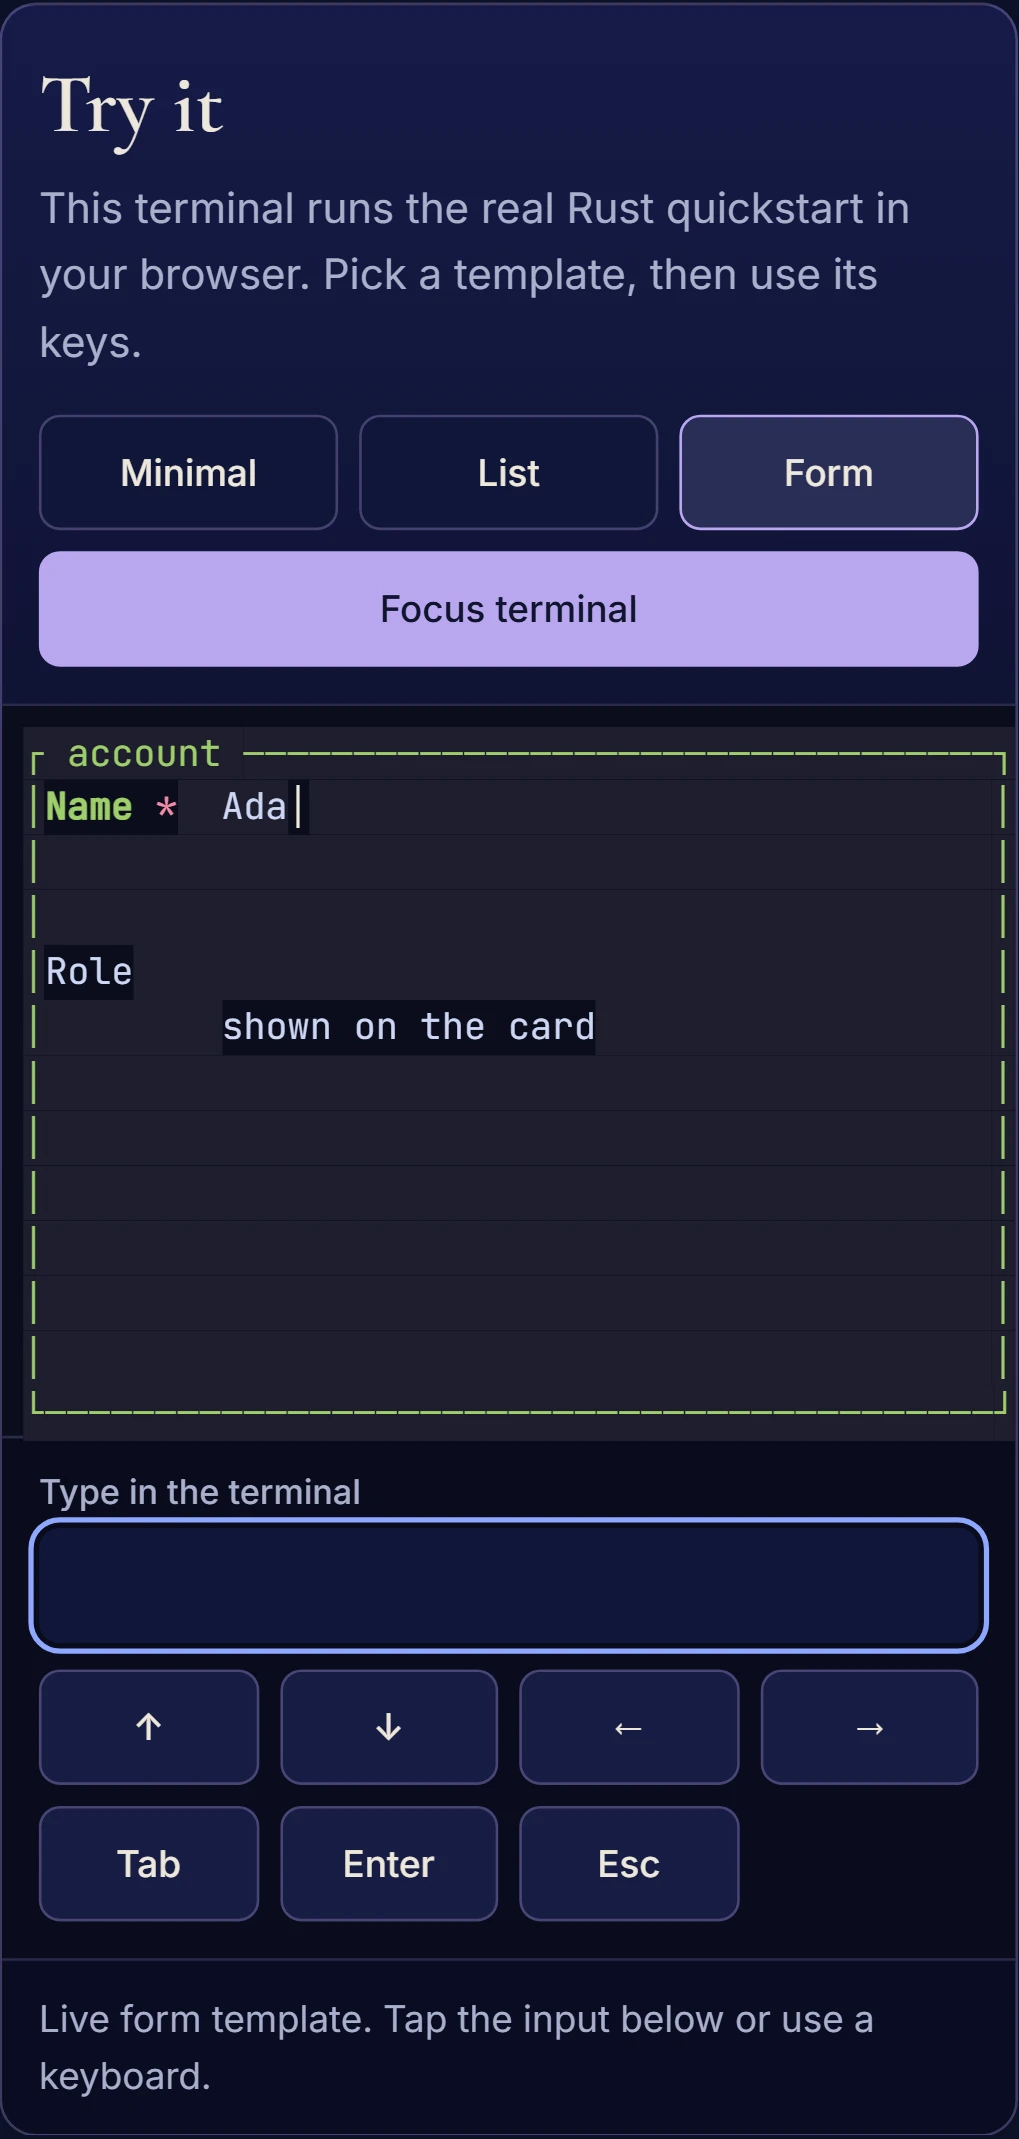
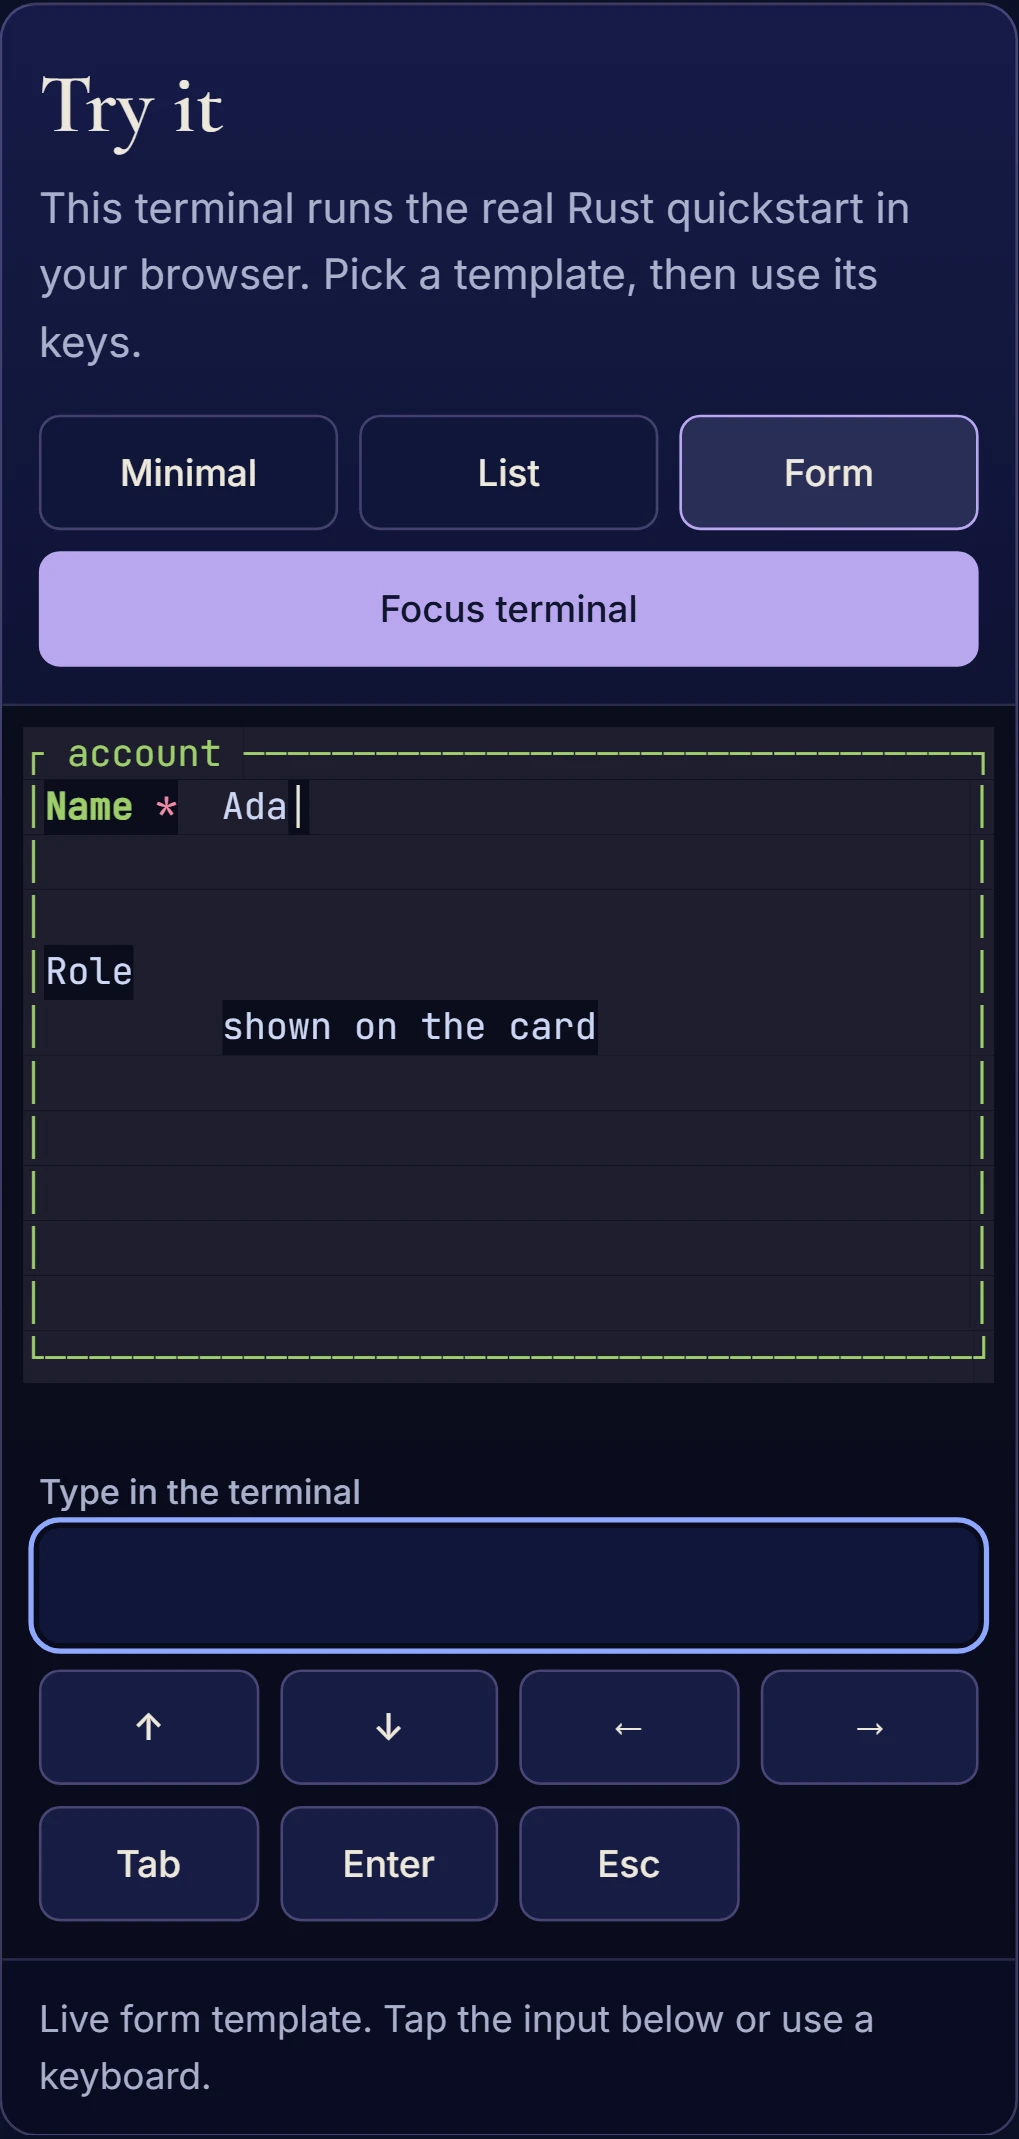
Fix mobile terminal sizing

Changed region(s): [[0.9431, 0.3703, 1.0, 0.648], [0.0304, 0.6171, 0.0608, 0.6788], [0.2738, 0.4628, 0.3042, 0.4937]]

diff --git a/site/quickstart.html b/site/quickstart.html
@@ -35,7 +35,8 @@ h2{font:600 36px var(--serif);margin-bottom:8px}
 .sandbox-stage{position:relative;background:var(--term);border-top:1px solid var(--line);border-bottom:1px solid var(--line);min-height:340px}
 .sandbox-stage img{width:100%;margin:0;border-radius:0}
 .sandbox [hidden]{display:none!important}
-.sandbox-terminal{height:340px;padding:12px}
+.sandbox-terminal{height:340px}
+.sandbox-terminal>.xterm{height:100%;padding:12px}
 .sandbox-mobile{display:none;padding:12px 22px 16px;border-bottom:1px solid var(--line);background:rgba(10,13,28,.72)}
 .sandbox-mobile label{display:block;margin-bottom:6px;color:var(--ink2);font:500 13px var(--sans)}
 .sandbox-input{width:100%;min-height:44px;border:1px solid var(--edge);border-radius:8px;padding:9px 12px;background:#111638;color:var(--ink);font:16px var(--mono)}
@@ -45,7 +46,7 @@ h2{font:600 36px var(--serif);margin-bottom:8px}
 .sandbox-keys button:focus-visible{outline:2px solid var(--peri);outline-offset:2px}
 .sandbox-status{min-height:48px;padding:11px 22px;font-size:14px}
 @media(max-width:767px),(pointer:coarse){.sandbox-mobile{display:block}}
-@media(max-width:640px){.nav .bar{height:68px;padding:0 16px}.logo{font-size:25px}.nav a.back{font-size:14px}main{min-width:0;padding:32px 12px 56px}h1{font-size:48px}.lede{margin-bottom:28px}.card{padding:16px;margin-bottom:20px}.sandbox{padding:0}.sandbox-copy{padding:18px 14px 0}.sandbox-copy h2{font-size:32px}.sandbox-toolbar{display:grid;grid-template-columns:repeat(3,minmax(0,1fr));padding:14px;gap:8px}.sandbox-toolbar button{padding:8px 6px}.sandbox-toolbar .sandbox-start{grid-column:1/-1;width:100%;margin-left:0}.sandbox-stage,.sandbox-terminal{min-height:280px;height:280px}.sandbox-terminal{padding:8px}.sandbox-mobile{padding:12px 14px 14px}.sandbox-status{padding:11px 14px}.sandbox-keyboard-open .sandbox-stage{min-height:180px}.sandbox-keyboard-open .sandbox-terminal{min-height:180px;height:clamp(180px,calc(var(--sandbox-visual-height,100vh) - 250px),280px)}}
+@media(max-width:640px){.nav .bar{height:68px;padding:0 16px}.logo{font-size:25px}.nav a.back{font-size:14px}main{min-width:0;padding:32px 12px 56px}h1{font-size:48px}.lede{margin-bottom:28px}.card{padding:16px;margin-bottom:20px}.sandbox{padding:0}.sandbox-copy{padding:18px 14px 0}.sandbox-copy h2{font-size:32px}.sandbox-toolbar{display:grid;grid-template-columns:repeat(3,minmax(0,1fr));padding:14px;gap:8px}.sandbox-toolbar button{padding:8px 6px}.sandbox-toolbar .sandbox-start{grid-column:1/-1;width:100%;margin-left:0}.sandbox-stage,.sandbox-terminal{min-height:280px;height:280px}.sandbox-terminal>.xterm{padding:8px}.sandbox-mobile{padding:12px 14px 14px}.sandbox-status{padding:11px 14px}.sandbox-keyboard-open .sandbox-stage{min-height:180px}.sandbox-keyboard-open .sandbox-terminal{min-height:180px;height:clamp(180px,calc(var(--sandbox-visual-height,100vh) - 250px),280px)}}
 @media(max-width:319px){.sandbox-toolbar,.sandbox-mobile{display:none!important}.sandbox-stage{min-height:0}.sandbox-status{min-height:0}.sandbox-copy p{font-size:14px}}
 img{display:block;max-width:100%;height:auto;margin:16px 0;border-radius:8px;background:var(--term)}
 pre{overflow:auto;max-height:480px;background:var(--term);border:1px solid var(--line);border-radius:8px;padding:14px 16px}

diff --git a/site/tests/mobile-sandbox.spec.js b/site/tests/mobile-sandbox.spec.js
@@ -3,6 +3,22 @@
 
 import { expect, test } from '@playwright/test';
 
+async function expectTerminalToFit(panel) {
+  const edges = await panel.locator('[data-sandbox-terminal]').evaluate((host) => {
+    const screen = host.querySelector('.xterm-screen');
+    const hostBox = host.getBoundingClientRect();
+    const hostStyle = getComputedStyle(host);
+    const pixels = (value) => Number.parseFloat(value) || 0;
+    return {
+      screenRight: screen.getBoundingClientRect().right,
+      hostContentRight: hostBox.right
+        - pixels(hostStyle.borderRightWidth)
+        - pixels(hostStyle.paddingRight),
+    };
+  });
+  expect(edges.screenRight).toBeLessThanOrEqual(edges.hostContentRight + 0.5);
+}
+
 test('phone input, composition, touch keys, and resizing preserve the session', async ({ page }, testInfo) => {
   await page.goto('/quickstart.html');
   const panel = page.locator('[data-sandbox]');
@@ -17,6 +33,7 @@ test('phone input, composition, touch keys, and resizing preserve the session', 
   await expect(input).toHaveAttribute('autocapitalize', 'none');
   await expect(input).toHaveAttribute('autocorrect', 'off');
   await expect(input).toHaveAttribute('spellcheck', 'false');
+  await expectTerminalToFit(panel);
 
   await input.tap();
   await input.fill('Z');
@@ -61,6 +78,7 @@ test('phone input, composition, touch keys, and resizing preserve the session', 
   await expect.poll(() => panel.getAttribute('data-cols')).not.toBe(originalColumns);
   await expect(rows).toContainText('AdaXY');
   await expect(rows).toContainText('Dev');
+  await expectTerminalToFit(panel);
   expect(await page.evaluate(() => document.body.scrollWidth <= window.innerWidth)).toBe(true);
 });
 
